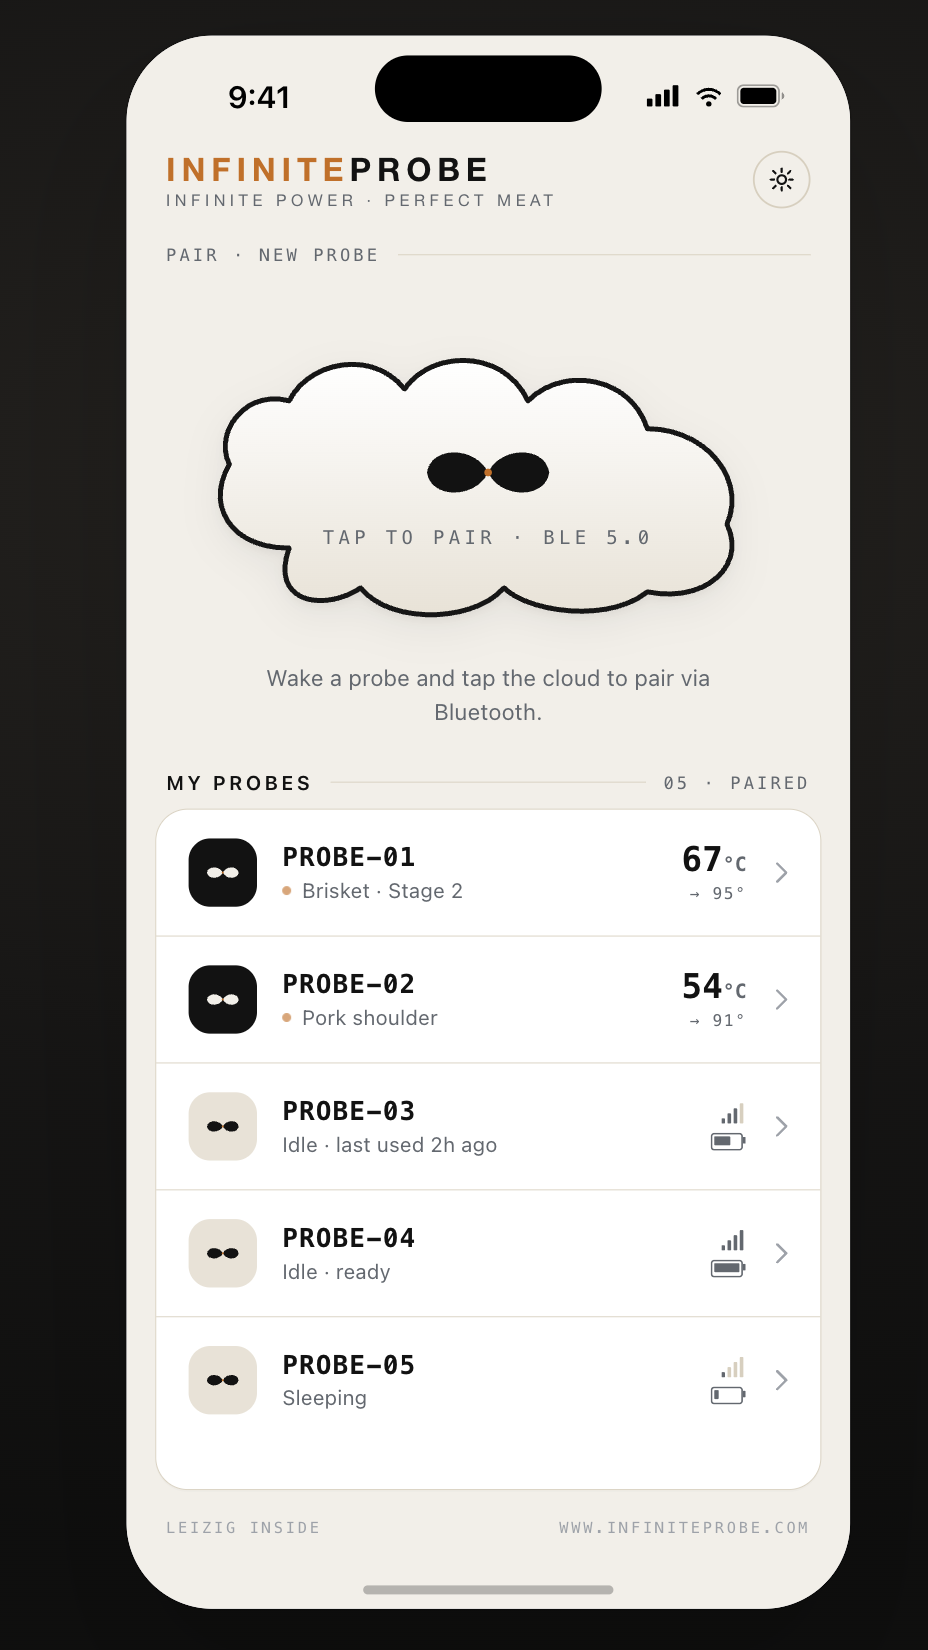
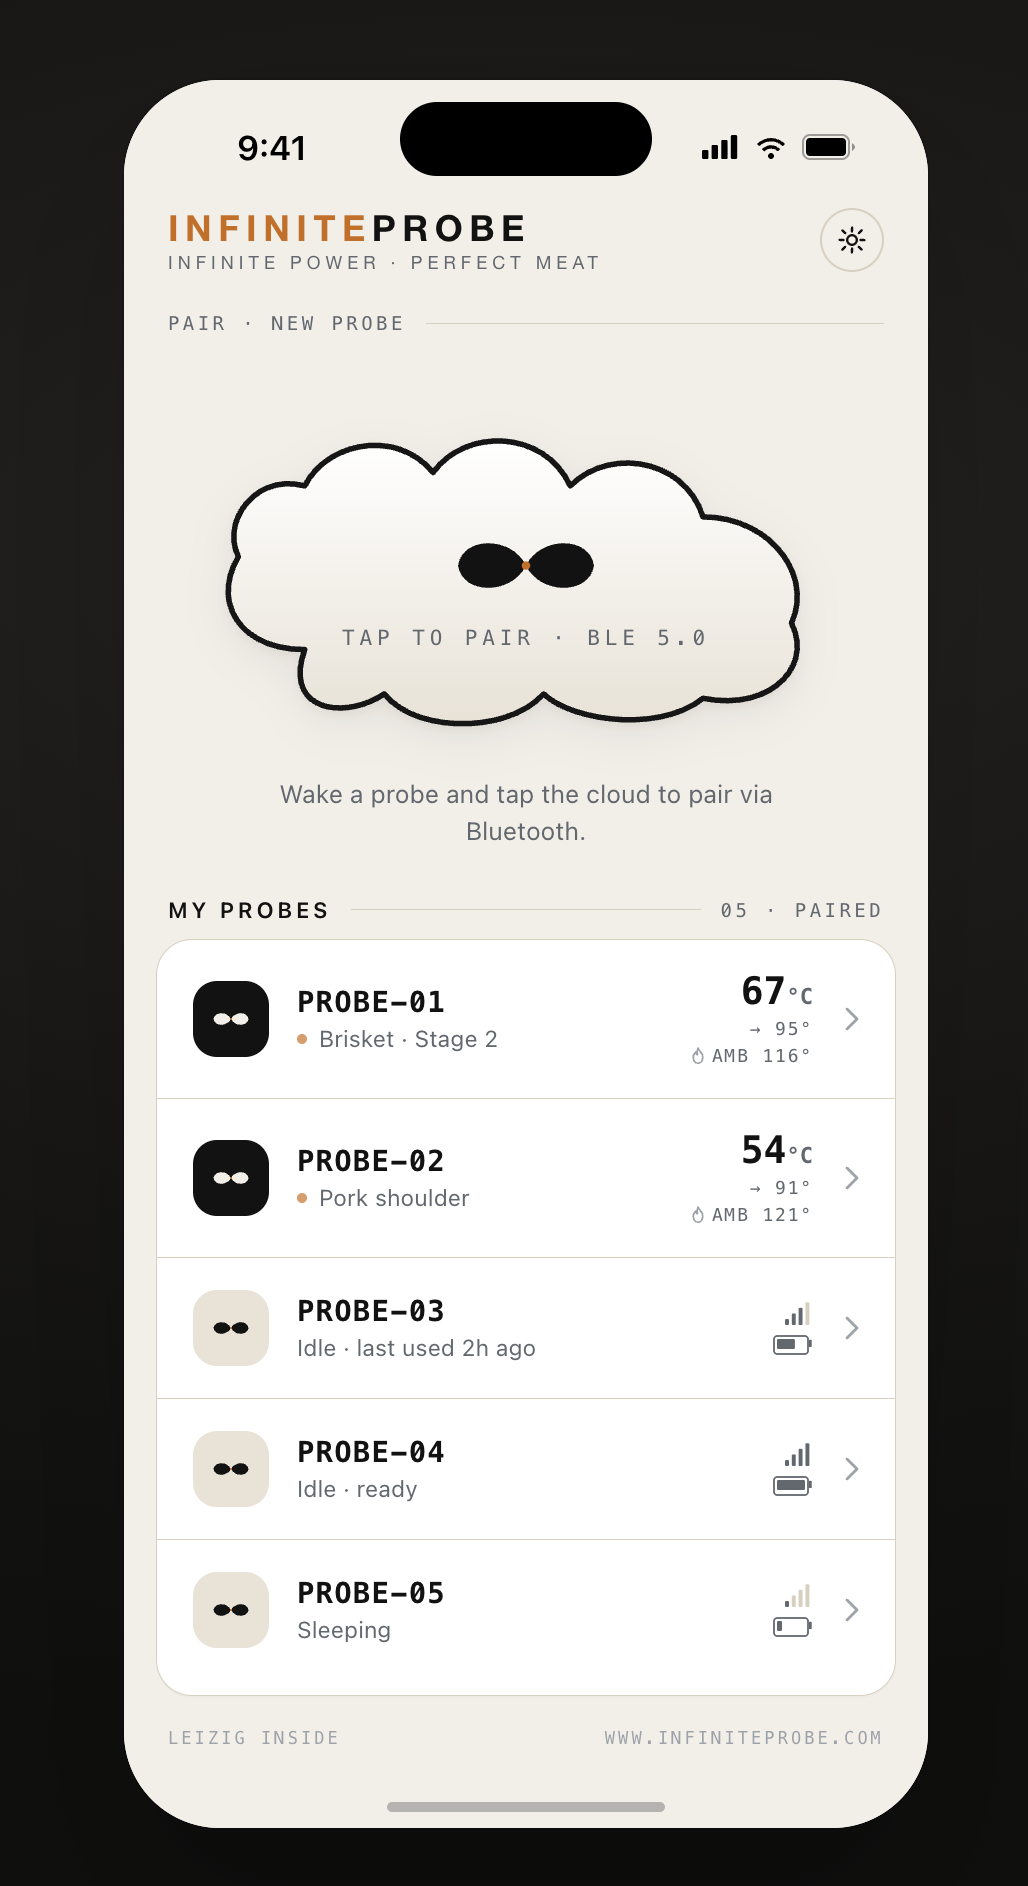
Apply 3rd design handoff: ambient UI screenshots, restore comparison table
The 3rd handoff (Home, App, How It Works) is largely a cleaner re-export of
the same design round as the 2nd, with real assets and a README. Verified
all prototype copy strings already match the implementation; only three
deltas needed applying:

- Restore the Home "Why It's Different" section to the full 4-row
  comparison table, per the prototype (replaces the teaser trim).
- Drop the "INTERNAL + AMBIENT" prefix from Home's capability strip. The
  Home prototype omits it while the App prototype includes it, so it now
  correctly appears on /app only.
- Update UI02, UI03, and UI05 screenshots to the revised versions showing
  the ambient UI (per-probe AMB readings, AMBIENT 116°C with recommended
  range and dual-line chart, per-cut oven ranges). These close the
  copy/UI gap flagged in the previous handoff.

Slot mapping in data/images.ts is unchanged and correct: the handoff
README mislabels UI02/UI03/UI04, but the prototype's own script comment
and the image contents confirm UI01=welcome, UI02=My Probes,
UI03=live cook, UI04=settings, UI05=library.

diff --git a/app/page.tsx b/app/page.tsx
@@ -533,8 +533,7 @@ export default function HomePage() {
               className="mono"
               style={{ fontSize: 12, letterSpacing: "0.18em", color: "rgba(242,239,230,0.65)" }}
             >
-              INTERNAL + AMBIENT · °C OR °F · MULTI-LANGUAGE · BLUETOOTH 5.0 · NOTHING LEAVES YOUR
-              DEVICE
+              °C OR °F · MULTI-LANGUAGE · BLUETOOTH 5.0 · NOTHING LEAVES YOUR DEVICE
             </div>
             <div style={{ display: "flex", gap: 14 }}>
               <StoreBadges variant="light" />
@@ -543,34 +542,23 @@ export default function HomePage() {
         </div>
       </div>
 
-      {/* 6 · Why It's Different (teaser) */}
+      {/* 6 · Why It's Different */}
       <div id="different" style={{ maxWidth: 1280, margin: "0 auto", padding: "clamp(72px,9vw,128px) 24px 0" }}>
         <SectionRule eyebrow="§ 05 · WHY IT'S DIFFERENT" />
-        <div style={{ display: "flex", flexWrap: "wrap", gap: 40, alignItems: "flex-start", justifyContent: "space-between" }}>
-          <h2
-            style={{
-              margin: "0 0 0",
-              fontSize: "clamp(30px,4vw,48px)",
-              fontWeight: 800,
-              letterSpacing: "-0.028em",
-              lineHeight: 1.05,
-              maxWidth: 640,
-            }}
-          >
-            The Last Thermometer Habit You&apos;ll Break Is Charging It
-          </h2>
-          <Link href="/why-different">
-            <button
-              className="btn-outline-dark"
-              style={{ padding: "15px 30px", fontSize: 13, whiteSpace: "nowrap" }}
-            >
-              SEE WHY IT&apos;S DIFFERENT →
-            </button>
-          </Link>
-        </div>
+        <h2
+          style={{
+            margin: "0 0 48px",
+            fontSize: "clamp(30px,4vw,48px)",
+            fontWeight: 800,
+            letterSpacing: "-0.028em",
+            lineHeight: 1.05,
+            maxWidth: 820,
+          }}
+        >
+          The Last Thermometer Habit You&apos;ll Break Is Charging It
+        </h2>
         <div
           style={{
-            marginTop: 40,
             background: "#FBF9F3",
             borderRadius: 20,
             overflow: "hidden",
@@ -598,12 +586,13 @@ export default function HomePage() {
               INFINITEPROBE
             </div>
           </div>
-          {COMPARISON.slice(0, 1).map((row) => (
+          {COMPARISON.map((row) => (
             <div
               key={row.label}
               style={{
                 display: "grid",
                 gridTemplateColumns: "minmax(120px,1.1fr) 1fr 1fr",
+                borderBottom: "1px solid rgba(20,20,20,0.08)",
               }}
             >
               <div style={{ padding: "22px 24px", fontWeight: 700, fontSize: 14 }}>{row.label}</div>

diff --git a/LAUNCH_CHECKLIST.md b/LAUNCH_CHECKLIST.md
@@ -99,7 +99,7 @@ dashed placeholder boxes) — drop files into `/public/images` and set the path:
 ## 11 · New pages (2026-07-27 design handoff)
 
 - [ ] **Ambient sensing spec values** — `data/specs.json` § s1: `Sensor type / count` (`[internal + ambient — confirm]`), `Ambient sensor range` (`[XX °C – XXX °C — confirm]`). Confirm with engineering whether dual internal+ambient sensing is final before launch (the "Sensing" row is asserted as non-TBC copy already).
-- [ ] **App screenshots** — the 2nd design handoff implies updated app screenshots showing the new ambient-tracking UI (referenced under different filenames in the prototype export), but no actual image files were included. Current `/public/images/UI01–05.png` and `data/images.ts` are unchanged. Get final ambient-UI screenshots from design before launch.
+- [x] **App screenshots** — resolved in the 3rd handoff (2026-07-27): updated `UI02` (My Probes, per-probe `AMB` readings), `UI03` (live cook with `AMBIENT 116°C` + `REC 110–120°` and an internal/ambient/target chart), and `UI05` (Cooking Library with per-cut oven ranges) are now in `/public/images`. `UI01`/`UI04` unchanged. Slot mapping in `data/images.ts` is correct and unchanged — note the 3rd handoff README's asset list mislabels UI02/UI03/UI04, but the prototype's own script comment and the actual pixels confirm: `UI01=welcome, UI02=My Probes, UI03=live cook, UI04=settings, UI05=library`.
 - [ ] **`/why-different`** — new standalone page (`app/why-different/page.tsx`). Content is finished/non-placeholder in the design handoff; no new brackets introduced.
 - [ ] **`/privacy-policy`** (`app/privacy-policy/page.tsx`) — placeholders: `[MONTH DD, YYYY — SET AT PUBLICATION]` (last updated), `[privacy@infiniteprobe.com]` (confirm address), `[REGISTERED ADDRESS — AWAITING LEGAL]`, `[JURISDICTION — TBC]`, `[REGIONS — TBC]`, `[X]` business-day request-acknowledgment window.
 - [ ] **`/shipping-policy`** (`app/shipping-policy/page.tsx`) — placeholders: last-updated date, `[X–X] days` processing time (×2), peak-season `[X]` day delay, `[HH:MM TIMEZONE — TBC]` cutoff, `[$XX — TBC]` expedited/priority rates, AK/HI/territory `[X–X]` day delay, `[X–XX] business days` international transit, `[CONFIRM WITH CARRIER]` PO Box/APO guidance, `[X–XX]` military address delay, tracking-silence/damage/missing-package day thresholds in the FAQ, `[orders@infiniteprobe.com]`.
